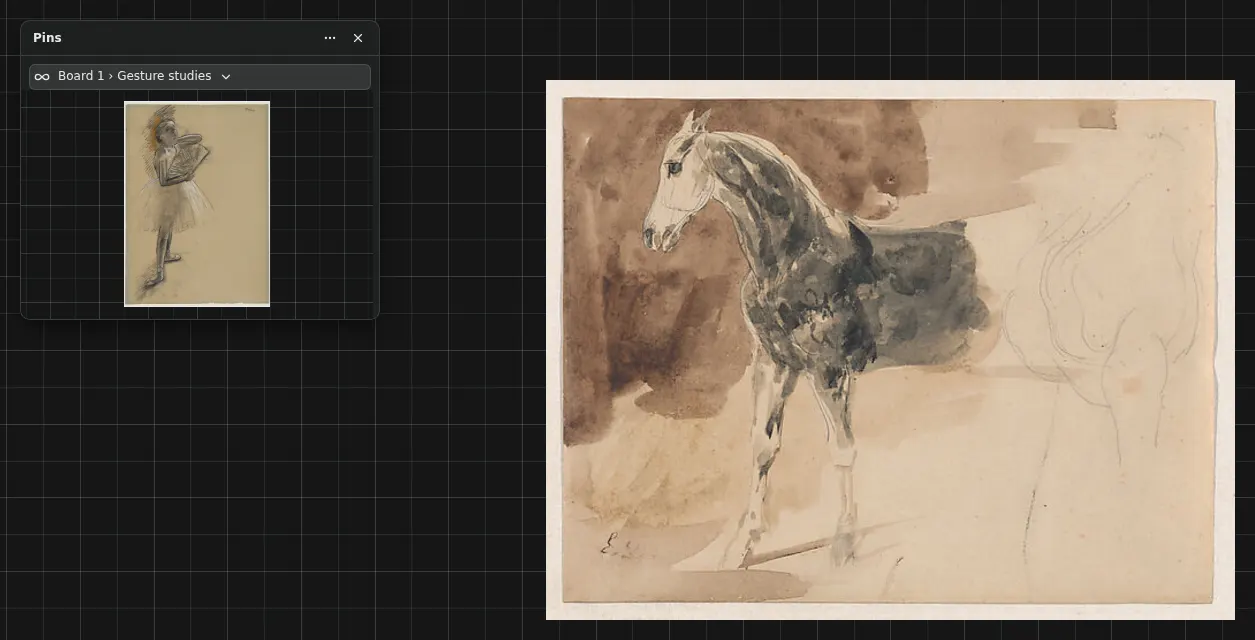
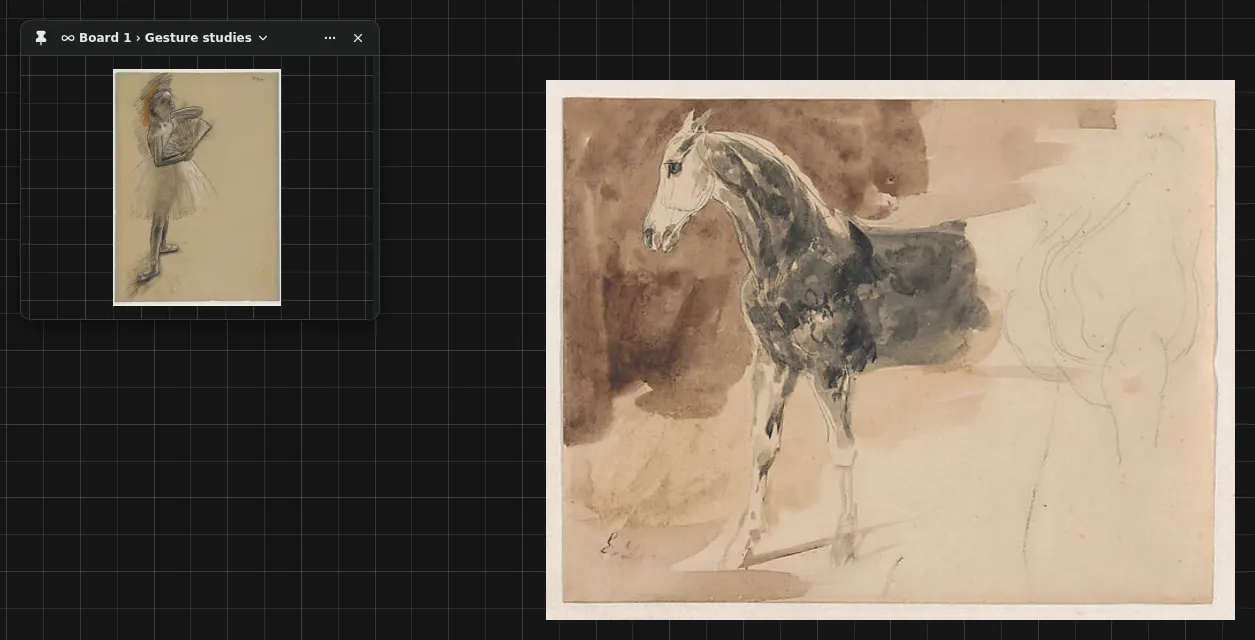
fix(library): a folder's count in the row's text colour under the pointer (contrast); the Pins pictures taken again (v0.63.14)

Changed region(s): [[0.0, 0.0938, 0.3108, 0.5], [0.0311, 0.0312, 0.2175, 0.0625]]

diff --git a/src/styles.css b/src/styles.css
@@ -3319,6 +3319,9 @@ dialog.reset-dialog h3 { margin: var(--s-6) 0 var(--s-4); font-size: var(--text-
   .side-row.tree-row .side-item.is-active ~ .side-more { color: var(--hud-accent-fg); }
   .side-row.tree-row .side-item.is-active ~ .side-more:is(:hover, [aria-expanded="true"]) { color: var(--hud-accent-fg); background: color-mix(in oklch, var(--hud-accent-fg) 22%, transparent); }
   .side-row.tree-row .side-item.is-active ~ .side-more:focus-visible { outline-color: var(--hud-accent-fg); }
+  /* (the count stays under the pointer: in the row's own text colour there, readable on the row's hover and on the accent) */
+  .side-row.tree-row:is(:hover, :focus-within, .has-open-menu) .side-n { color: var(--hud-fg); }
+  .side-row.tree-row:is(:hover, :focus-within, .has-open-menu) .side-item.is-active .side-n { color: var(--hud-accent-fg); }
 }
 .side-pin[aria-pressed="true"] svg, .assets-hidden-bar [data-action="hidden-stay"][aria-pressed="true"] svg { fill: currentColor; } /* (pinned: filled, the one look of a pin that is on) */
 /* A folder with subfolders: a small branch before its count (it opens and closes on its own row, with no arrow). */

diff --git a/CHANGELOG.md b/CHANGELOG.md
@@ -1,5 +1,10 @@
 # Changelog
 
+## 0.63.14 — A folder's count readable under the pointer (2026-11-24)
+
+- **Fixed before release:** a folder row's count, which now stays under the pointer, takes the row's text colour there, so it reads on the hovered and the selected row in both themes. ([Folders and tags](README.md#folders-and-tags))
+- **Docs:** the two Pins pictures show the title's pin and the list's button. ([Pins](README.md#pins))
+
 ## 0.63.13 — Pictures keep their proportions when resized (2026-11-24)
 
 - **Changed:** a picture, a video or any other file keeps its proportions when resized by its handles, a corner or a side; shapes and sheets stretch as before, and a note's card is laid out again to its new shape as before. A picture is still stretched with its sheet when pinned to scale. ([Keyboard and pointer reference](README.md#keyboard-and-pointer-reference))
